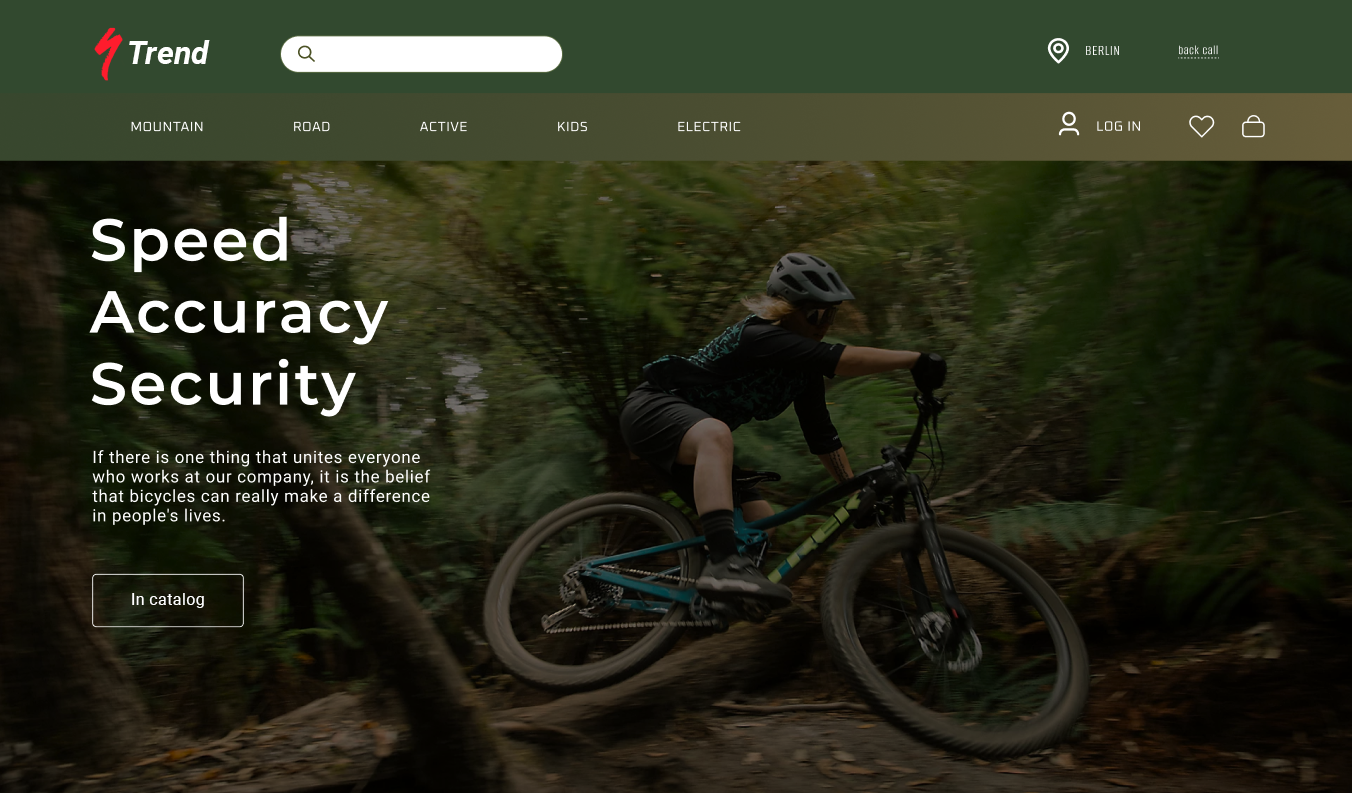
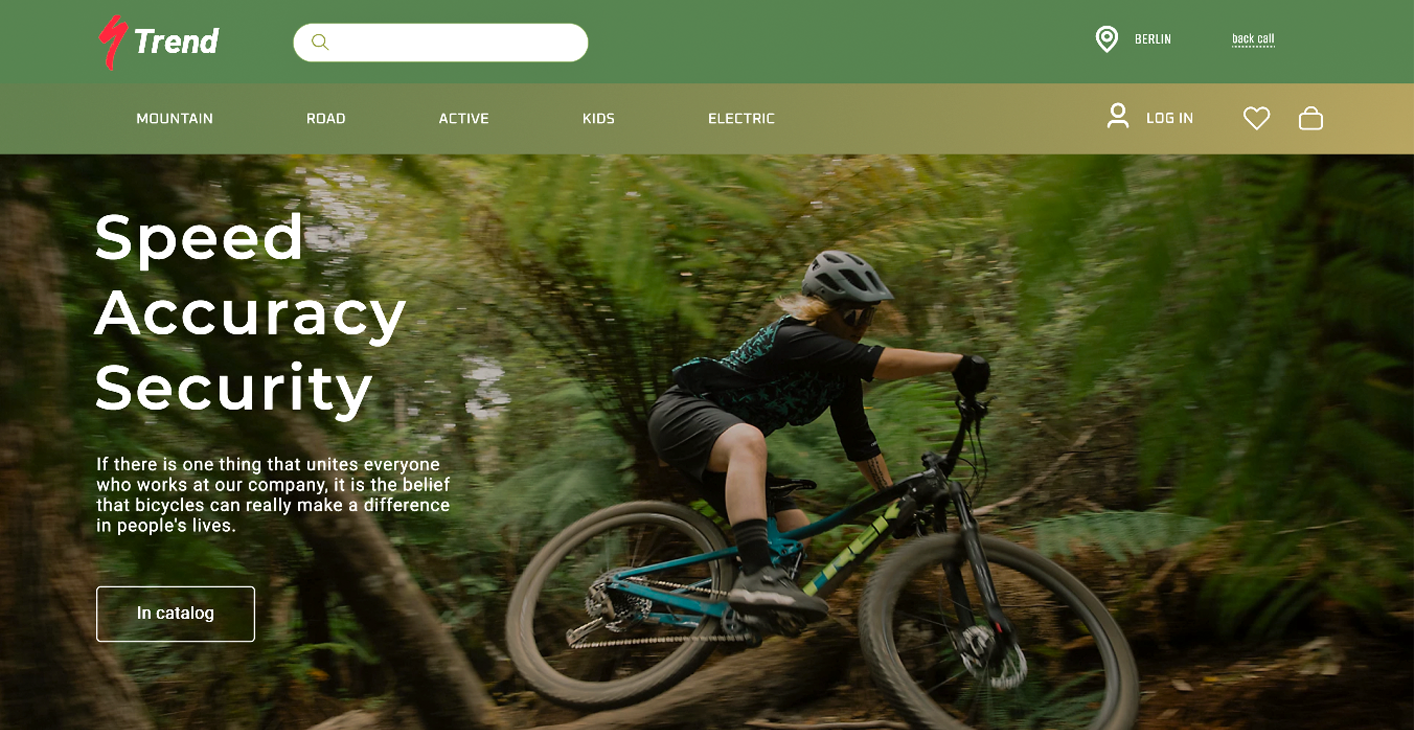
refactor: change data in project

diff --git a/app/sections/home_page/OurProjectsSection.tsx b/app/sections/home_page/OurProjectsSection.tsx
@@ -8,37 +8,16 @@ import React from "react";
 import MobileSliderComponent from "@/components/MobileSliderComponent";
 import classNames from "classnames";
 import SeeMoreButtonComponent from "./../../../components/SeeMoreButtonComponent";
+import trendHero from "@/images/project/project-trend/trend-hero.png";
 
 const sampleData = [
   {
     id: 1,
     image:
-      "https://img.freepik.com/free-photo/creative-copywriting-commercial-text-seo-editing_107791-15687.jpg?w=2000&t=st=1689761442~exp=1689762042~hmac=764807ff7ce02e9377fd4137c6e335816a5e066d40244b6dd7f13aca2a9fd9b9",
-    title: "Landing page of traveling company",
-    customer: "customer: Move",
-    year: "year: 2022",
-    author: "author: SoftLion",
-    description:
-      "In this project, we developed the design, implemented it, and provide further support",
-  },
-  {
-    id: 2,
-    image:
-      "https://img.freepik.com/free-photo/creative-copywriting-commercial-text-seo-editing_107791-15687.jpg?w=2000&t=st=1689761442~exp=1689762042~hmac=764807ff7ce02e9377fd4137c6e335816a5e066d40244b6dd7f13aca2a9fd9b9",
-    title: "Landing page of traveling company",
-    customer: "customer: Move",
-    year: "year: 2022",
-    author: "author: SoftLion",
-    description:
-      "In this project, we developed the design, implemented it, and provide further support",
-  },
-  {
-    id: 3,
-    image:
-      "https://img.freepik.com/free-photo/creative-copywriting-commercial-text-seo-editing_107791-15687.jpg?w=2000&t=st=1689761442~exp=1689762042~hmac=764807ff7ce02e9377fd4137c6e335816a5e066d40244b6dd7f13aca2a9fd9b9",
-    title: "Landing page of traveling company",
-    customer: "customer: Move",
-    year: "year: 2022",
+      "https://github.com/SoftLion-Co/prototype-fr/blob/refactor/new-data/images/project/project-trend/trend-hero.png?raw=true",
+    title: "Landing page of Trend company",
+    customer: "customer: Trend",
+    year: "year: 2023",
     author: "author: SoftLion",
     description:
       "In this project, we developed the design, implemented it, and provide further support",
@@ -48,7 +27,7 @@ const sampleData = [
 const OurProjectsSection = () => {
   return (
     <section className={s.projects}>
-      <ProjectHeadingComponent centered={false}/>
+      <ProjectHeadingComponent centered={false} />
       <div className={s.projects__mobile_slider}>
         <MobileSliderComponent
           data={sampleData}

diff --git a/app/sections/projects_page/OurProjectsSection.tsx b/app/sections/projects_page/OurProjectsSection.tsx
@@ -27,7 +27,7 @@ const sampleData: Array<{
   {
     id: 1,
     image:
-      "https://img.freepik.com/free-photo/creative-copywriting-commercial-text-seo-editing_107791-15687.jpg?w=2000&t=st=1689761442~exp=1689762042~hmac=764807ff7ce02e9377fd4137c6e335816a5e066d40244b6dd7f13aca2a9fd9b9",
+      "https://github.com/SoftLion-Co/prototype-fr/blob/refactor/new-data/images/project/project-trend/trend-hero.png?raw=true",
     title: "Landing page of Trend company",
     customer: "customer: Trend",
     year: "year: 2023",
@@ -130,10 +130,10 @@ const OurProjectsSection = () => {
     if (topRef.current && window.scrollY > 0) {
       const elementPosition = topRef.current.getBoundingClientRect();
       const offset = 110;
-      
+
       const targetScrollPosition =
         window.scrollY + elementPosition.top - offset;
-  
+
       window.scrollTo({
         top: targetScrollPosition,
         behavior: "smooth",
@@ -273,12 +273,15 @@ const OurProjectsSection = () => {
         size={paginationSize}
         styles={(theme) => ({
           control: {
-            '&[data-active]': {
-              backgroundImage: theme.fn.gradient({ from: '#308bb7', to: '#7ec2e4' }),
+            "&[data-active]": {
+              backgroundImage: theme.fn.gradient({
+                from: "#308bb7",
+                to: "#7ec2e4",
+              }),
               border: 0,
             },
           },
-        })}      
+        })}
       />
     </section>
   );

diff --git a/app/projects/[projectId]/page.tsx b/app/projects/[projectId]/page.tsx
@@ -15,7 +15,7 @@ const response = {
     time: "5 month",
     year: 2023,
     location: "Europe",
-    imgSrc: "https://i.ibb.co/CwYTtPR/photo-2023-08-07-14-08-48.jpg",
+    imgSrc: "https://github.com/SoftLion-Co/prototype-fr/blob/refactor/new-data/images/project/project-trend/trend-hero.png?raw=true",
   },
   RequestSection: {
     paragraph:

diff --git a/components/projects/ProjectCardComponent.module.scss b/components/projects/ProjectCardComponent.module.scss
@@ -66,7 +66,7 @@
     width: 357px;
     height: 200px;
     border-radius: 8px;
-
+    box-shadow: 2px 17px 18px -2px rgba(0, 0, 0, 0.15);
     @include for-size(laptop) {
       width: 528px;
       height: 296px;
